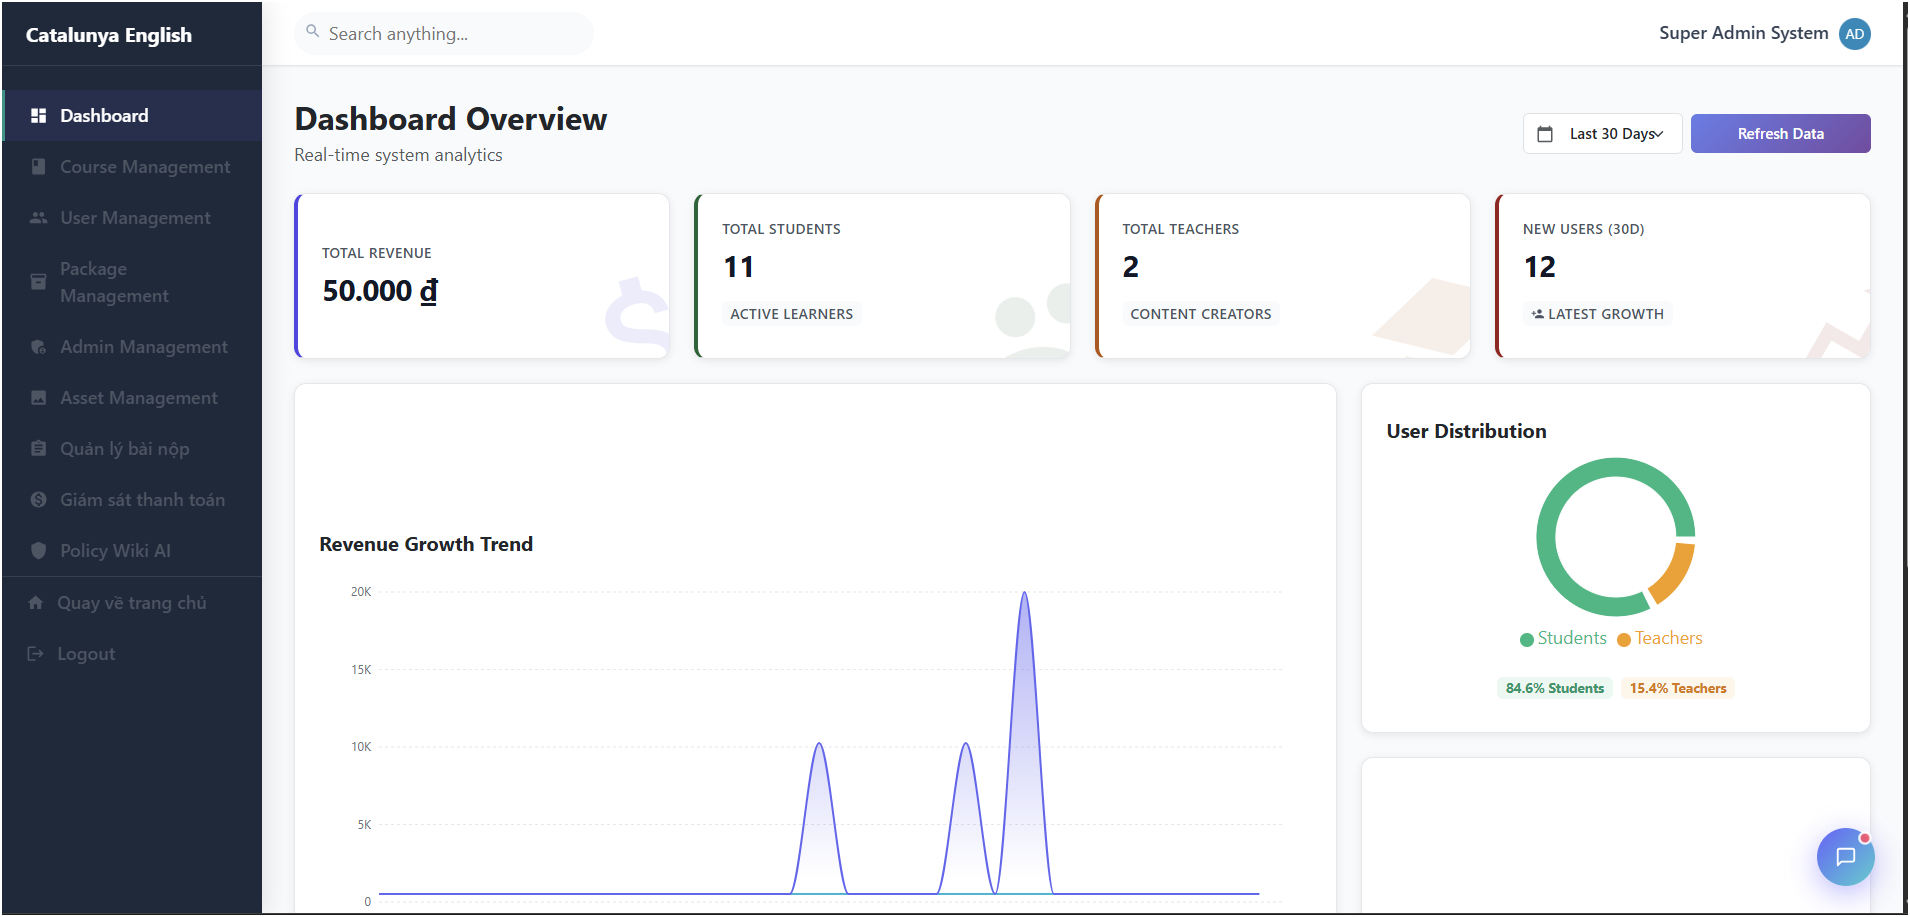
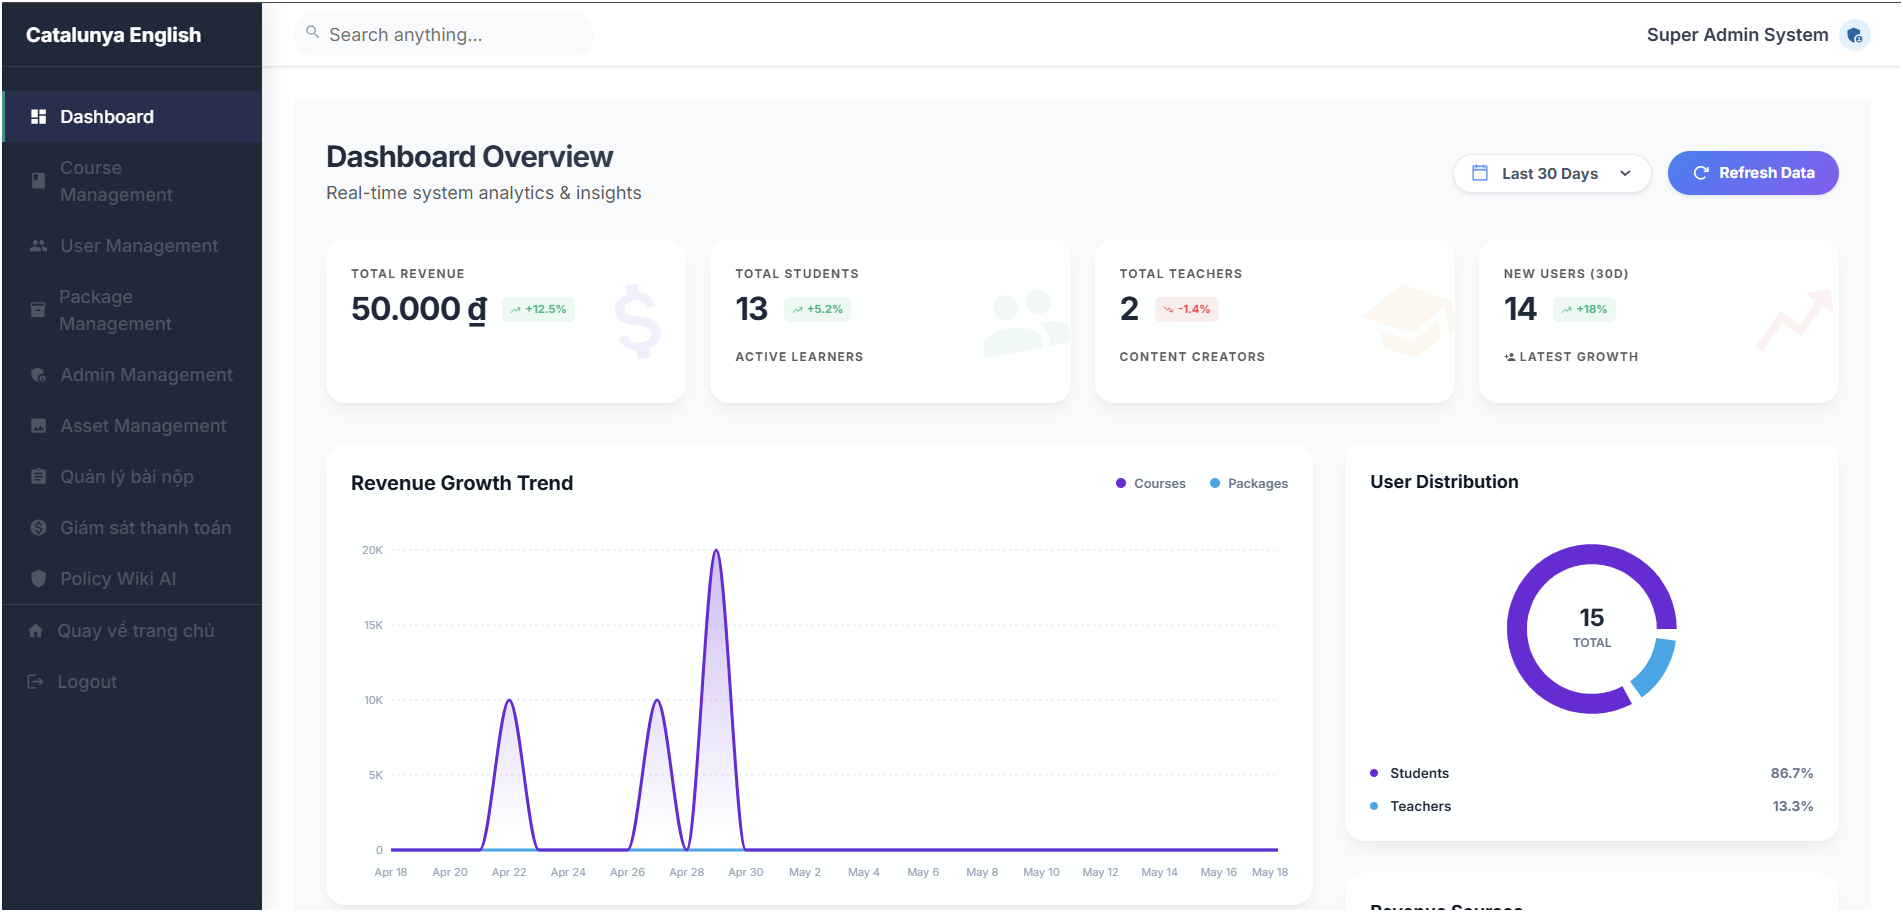
update thêm screenshot

diff --git a/README.en.md b/README.en.md
@@ -85,6 +85,7 @@ FSELearningEnglish/
 
 To ensure stability and fault-tolerance, all core logic is standardized using **BPMN 2.0** diagrams. This is the foundational documentation helping technical teams deeply understand data flows and business decision points.
 
+### 💰 4.1 Fintech Group
 - **Top-Up Flow**: PayOS integration, Webhook Idempotency handling.  
   [[📄 XML File]](./Office/BPMN/TopUp_Flow.xml)
   <details>
@@ -286,19 +287,19 @@ The system is designed with a **Structured Monolith** architecture, combining **
 - **Mechanism:** Visualizes learning data through interactive charts (Recharts).
 - **Value:** Tracks detailed practice history, accuracy rates, and course completion progress, keeping learners motivated through visible growth.
 
-### 👩🏫 9.3 SaaS "Teacher Empowerment" Model
+### 👩🏫 9.4 SaaS "Teacher Empowerment" Model
 <div align="center">
   <img src="./Office/Screenshot/Giaodiengiaovien.png" alt="Teacher SaaS Dashboard" width="800"/>
 </div>
 - Empowering teachers with private spaces and subscription quota management.
 
-### 💳 9.4 Fintech Wallet & Auto-Payment
+### 💳 9.5 Fintech Wallet & Auto-Payment
 <div align="center">
   <img src="./Office/Screenshot/naptien.png" alt="Fintech Wallet" width="800"/>
 </div>
 - **PayOS (QR Code)** integration with automated updates and **Audit Trail**.
 
-### 🎤 9.5 AI Pronunciation Assessment
+### 🎤 9.6 AI Pronunciation Assessment
 <div align="center">
   <img src="./Office/Screenshot/champhatam.png" alt="AI Pronunciation Assessment" width="800"/>
 </div>
@@ -307,35 +308,77 @@ The system is designed with a **Structured Monolith** architecture, combining **
 ---
 
 ## 📸 10. UI Gallery
+
 <details>
   <summary><b>1. Learning Space & Lectures</b></summary>
   <div align="center">
     <img src="./Office/Screenshot/Trangkhoahoc.png" alt="Course Page" width="800"/><br/>
-    <img src="./Office/Screenshot/baigiang.png" alt="Lecture 1" width="400"/>
-    <img src="./Office/Screenshot/baigiang2.png" alt="Lecture 2" width="400"/><br/>
-    <img src="./Office/Screenshot/lambaiquiz.png" alt="Quiz Practice" width="400"/>
-    <img src="./Office/Screenshot/ketthucbaiquuz.png" alt="Quiz Finish" width="400"/>
+    <img src="./Office/Screenshot/baigiang.png" alt="Lecture (Text + Table Format)" width="400"/>
+    <img src="./Office/Screenshot/baigiang2.png" alt="Lecture (Video Format)" width="400"/>
   </div>
 </details>
 
 <details>
-  <summary><b>2. System Admin & SaaS Dashboard</b></summary>
+  <summary><b>2. Quiz & Assessment Experience</b></summary>
   <div align="center">
-    <img src="./Office/Screenshot/dashboard.png" alt="Admin Dashboard" width="800"/><br/>
-    <img src="./Office/Screenshot/dashboadRBAC.png" alt="RBAC Admin" width="400"/>
-    <img src="./Office/Screenshot/dashboadusser.png" alt="User Admin" width="400"/><br/>
-    <img src="./Office/Screenshot/dashboardcourse.png" alt="Course Admin" width="400"/>
-    <img src="./Office/Screenshot/DarshboardQLbainop.png" alt="Submission Admin" width="400"/>
+    <img src="./Office/Screenshot/lambaiquiz.png" alt="Quiz Taking — Timer + Question Navigator" width="800"/><br/>
+    <img src="./Office/Screenshot/ketthucbaiquuz.png" alt="Quiz Result Screen" width="400"/>
+    <img src="./Office/Screenshot/Chitietbaiquiz.png" alt="Quiz Detail Review — Per-question Breakdown" width="400"/>
   </div>
 </details>
 
 <details>
-  <summary><b>3. Personalization & User Portal</b></summary>
+  <summary><b>3. AI-Powered Features</b></summary>
   <div align="center">
-    <img src="./Office/Screenshot/Dardboardlsgiaodich.png" alt="Transaction History" width="800"/><br/>
-    <img src="./Office/Screenshot/naptien.png" alt="Top-up" width="400"/>
-    <img src="./Office/Screenshot/lichsunaptien.png" alt="Top-up History" width="400"/><br/>
-    <img src="./Office/Screenshot/lichsulambai.png" alt="Practice History" width="800"/>
+    <img src="./Office/Screenshot/chatbot0.png" alt="RAG Chatbot — User Query" width="400"/>
+    <img src="./Office/Screenshot/chatbot1.png" alt="RAG Chatbot — Knowledge Retrieval Response" width="400"/><br/>
+    <img src="./Office/Screenshot/champhatam.png" alt="AI Pronunciation Assessment — Phoneme Level Scoring" width="800"/>
+  </div>
+</details>
+
+<details>
+  <summary><b>4. Adaptive Learning (SM-2 Flashcards)</b></summary>
+  <div align="center">
+    <img src="./Office/Screenshot/Ontaptuvung.png" alt="SM-2 Flashcard — 5-Level Memory Rating" width="800"/><br/>
+    <img src="./Office/Screenshot/lichsulambai.png" alt="Quiz History — Practice Progress Tracking" width="800"/>
+  </div>
+</details>
+
+<details>
+  <summary><b>5. System Admin Dashboard</b></summary>
+  <div align="center">
+    <img src="./Office/Screenshot/Dashboard.png" alt="Admin Overview — Revenue, Users, Growth Charts" width="800"/><br/>
+    <img src="./Office/Screenshot/DashboardCourse.png" alt="Course Management — System & Teacher Courses" width="400"/>
+    <img src="./Office/Screenshot/DashboardUser.png" alt="User Management — Role, Status, Wallet Actions" width="400"/><br/>
+    <img src="./Office/Screenshot/DashboardTeacherPackage.png" alt="Teacher Package Management — Subscription Tiers & Quotas" width="800"/>
+  </div>
+</details>
+
+<details>
+  <summary><b>6. Content & Submission Management</b></summary>
+  <div align="center">
+    <img src="./Office/Screenshot/DashboardQLBaiTap.png" alt="Submission Management — Course Grid Drill-down" width="800"/><br/>
+    <img src="./Office/Screenshot/DashboardXembaiQuiz.png" alt="Quiz Submission History — All Attempts per Student" width="400"/>
+    <img src="./Office/Screenshot/DashboardEssay.png" alt="Essay Submission List — Status & Score" width="400"/><br/>
+    <img src="./Office/Screenshot/ChamBaiEsssay.png" alt="Essay Grading — View Submission Tab" width="400"/>
+    <img src="./Office/Screenshot/ChamdiemEssay.png" alt="Essay Grading — Score & Feedback Tab" width="400"/>
+  </div>
+</details>
+
+<details>
+  <summary><b>7. Financial Monitoring & Asset Management</b></summary>
+  <div align="center">
+    <img src="./Office/Screenshot/DashboardQLTransaction.png" alt="Transaction Monitor — PayOS & Internal Wallet Audit Trail" width="800"/><br/>
+    <img src="./Office/Screenshot/naptien.png" alt="Top-up — VietQR Payment Flow" width="400"/>
+    <img src="./Office/Screenshot/lichsunaptien.png" alt="Payment History — User Portal" width="400"/><br/>
+    <img src="./Office/Screenshot/DashboardQLAssetFrontend.png" alt="Asset Management — Logo & Default Images" width="800"/>
+  </div>
+</details>
+
+<details>
+  <summary><b>8. Teacher Space (SaaS)</b></summary>
+  <div align="center">
+    <img src="./Office/Screenshot/Giaodiengiaovien.png" alt="Teacher Dashboard — Private Class Management" width="800"/>
   </div>
 </details>
 
@@ -385,7 +428,12 @@ The system is designed with a **Structured Monolith** architecture, combining **
 
 **📸 SEO Evidence (Google Search Console / Google Lighthouse Indexing):**
 <div align="center">
-  <img src="./Office/Screenshot/ChungminhSEO.png" width="85%" alt="Catalunya English SEO Evidence">
+  <img src="./Office/Screenshot/ChungminhSEO.png" width="85%" alt="Catalunya English — Ranked #1 on Google Search">
+</div>
+
+**📸 Google Analytics 4 — Real-time User Tracking:**
+<div align="center">
+  <img src="./Office/Screenshot/GGAnalyst.png" width="85%" alt="Google Analytics 4 — Active Users & Event Tracking">
 </div>
 
 ### 📈 Stress Testing
@@ -398,12 +446,12 @@ The system is designed with a **Structured Monolith** architecture, combining **
 - **Data Integrity:** Strict input validation for financial transactions.
 - **Audit Trail:** Balance history tracking to prevent fraud.
 
-### 📸 Evidence
+### 📸 Performance & Load Test Evidence
 <div align="center">
-  <img src="./Office/Screenshot/performanceMobile.png" width="45%" alt="Lighthouse Mobile Score">
-  <img src="./Office/Screenshot/PerformanceDesktop.png" width="45%" alt="Lighthouse Desktop Score">
-  <img src="./Office/Screenshot/K6.png" width="45%" alt="k6 Load Test Result 1">
-  <img src="./Office/Screenshot/k62.png" width="45%" alt="k6 Load Test Result 2">
+  <img src="./Office/Screenshot/PerformanceDesktop.png" width="45%" alt="Lighthouse Desktop — 97/96/100/100">
+  <img src="./Office/Screenshot/performanceMobile.png" width="45%" alt="Lighthouse Mobile — 85/96/100/100"><br/>
+  <img src="./Office/Screenshot/K6.png" width="45%" alt="k6 Load Test — 500 VUs, 0% Error, p95=334ms">
+  <img src="./Office/Screenshot/k62.png" width="45%" alt="k6 Stress Test — 2000 VUs, 0% Error, 873 RPS">
 </div>
 
 ---
